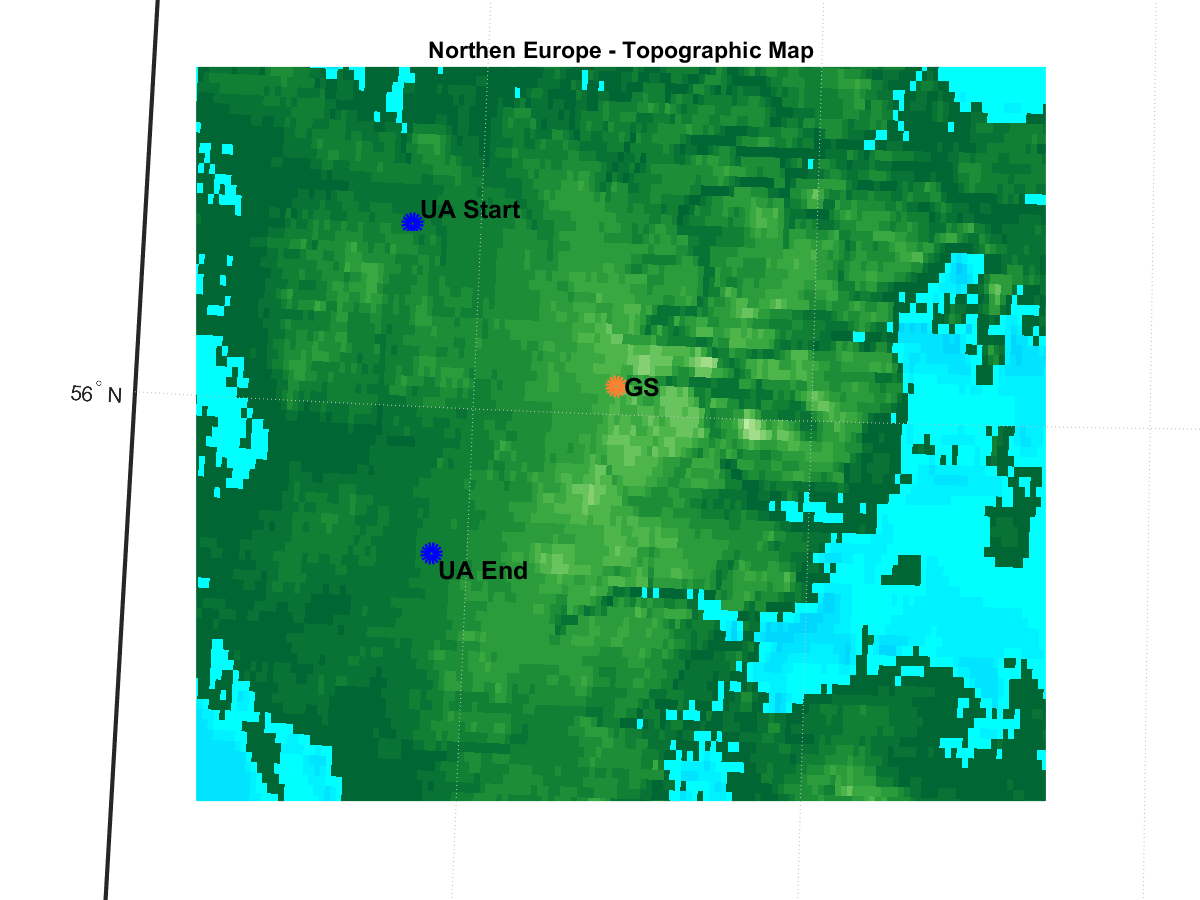
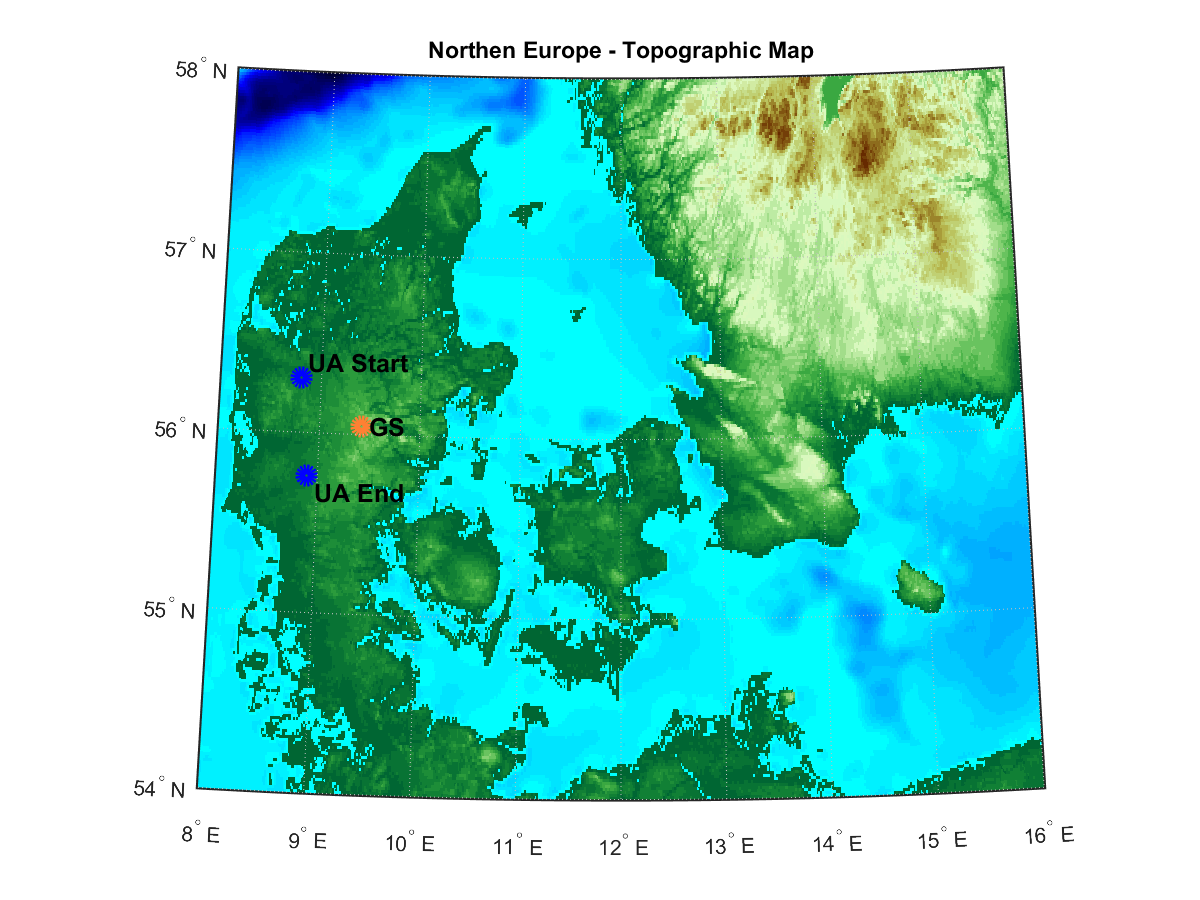
zoom

diff --git a/doc/report/sections/results/scenario1.tex b/doc/report/sections/results/scenario1.tex
@@ -1,20 +1,20 @@
+\newpage
 \section{Scenario 1 - Angle Range}\label{sec:scenario1}
-The first scenario describes the movement of the antennas when the UA flies far away from the GS between two predefined positions (Figure \ref{fig:s1_map_a}). The distance between the aircraft and the GS can be represented by a parabola, as is described in Figure \ref{fig:s1_map_b}. In the beginning, the distance between both devices is around 48km and, while the UA is flying, the distance becomes smaller, achieving a minimum value. After this minimum, the distance between the devices increases until the UA reach the final position.
+The first scenario describes the movement of the antennas when the UA flies far away from the GS between two predefined positions (Figure \ref{fig:s1_map_a}). The distance between the aircraft and the GS can be represented by a parabola, as is described in Figure \ref{fig:s1_map_c}. In the beginning, the distance between both devices is around 48km and, while the UA is flying, the distance becomes smaller, achieving a minimum value. After this minimum, the distance between the devices increases until the UA reach the final position.
 
 Based on Figures \ref{fig:s1_pd_gs_alone} and \ref{fig:s1_pd_ua_alone}, it is possible to observe that the azimuth and elevation angles of the UA and the GS often have different behaviours during the whole movement. 
-  
 
 \begin{figure}[H]
-	\hfill
-	\subfigure[UAS Map Positioning]{\label{fig:s1_map_a} \includegraphics[scale=0.32]{figures/s1_map.png}}
-	\hfill
-	\subfigure[LOS and Distance]{\label{fig:s1_map_b} \includegraphics[scale=0.34]{figures/s1_los.png}}
-	\hfill
+	\centering
+	\subfigure[UAS Map Positioning]{\label{fig:s1_map_a} \includegraphics[scale=0.37]{figures/s1_map.png}}
+	\subfigure[UAS Map Zoom]{\label{fig:s1_map_b} \includegraphics[scale=0.31]{figures/s1_zoom.png}}
+	\\
+	\subfigure[LOS and Distance]{\label{fig:s1_map_c} \includegraphics[scale=0.53]{figures/s1_los.png}}
 	\caption{Angle Range Scenario}
 	\label{fig:s1_map}
 \end{figure}
 
-\subsection{Ground Station}\label{GroundStation_scenario1}
+\subsection*{GS Tracking Angles}\label{GroundStation_scenario1}
 As expected, the absolute value of the $\theta_{OPTIMAL}$ increases until it reaches 180$^{\circ}$  and, then, it starts increasing from -180$^{\circ}$ until the end. The initial $\theta_{OPTIMAL}$ is around 140$^{\circ}$ due to the system of coordinates applied where the Local NED frame coincides with the body frame. This assumption was taken into account because the position of the GS is static.
 
 In the beginning, the amplitude of the azimuth angle is positive and is growing because the UA is flying on the left side of the GS (lower longitude) to south (decreasing latitude). However, there is a jump when $\theta$ reaches 180$^{\circ}$ in the first graph of Figure \ref{fig:s1_pd_gs_alone}. This happens due to the used convention which limits the range from -180$^{\circ}$ to 180$^{\circ}$. Nonetheless, there is a continuous rotation, which means that when the antenna achieves 180$^{\circ}$, it will continue rotate in the same direction starting from -180$^{\circ}$. Thus, after the jump, the amplitude of the azimuth angle will continue increase from -180$^{\circ}$ until -136$^{\circ}$.
@@ -52,7 +52,7 @@ In this project, P and PD controllers are not affected by the overshoot and, fur
 	\label{fig:s1_gs}
 \end{figure}
 
-\subsection{Unmanned Aircraft}
+\subsection*{UA Tracking Angles}
 Figure \ref{fig:s1_pd_ua_alone} shows the elevation and azimuth angles of the UA during the whole movement. Based on the fact that the Local NED frame does not coincide with the body frame, it is possible to understand the behaviour of the angle of the antenna. Since the GS is in the right side of the UA (bigger longitude) and the UA is flying towards south (decreasing latitude), the antenna angle will be positive during the whole flight.
 The initial $\theta_{OPTIMAL}$ starts around 50 degrees and, as was mentioned before, it increases until around 130 degrees.
 
@@ -86,7 +86,7 @@ Thus, based on the graphs of the azimuth angle of Figure \ref{fig:s1_ua}, it is 
 	\label{fig:s1_ua}
 \end{figure}
 
-\subsection{Power}
+\subsection*{Signal Power}
 In general, the power in the receiver described in Figure \ref{fig:s1_power} has almost the same behaviour in all of the different controllers. In every case, the power in the beginning is small (-100dBm) because the antennas are not pointing at each other. After 10 samples, the antenna of the GS and the antenna of the UA are pointing at each other and the power received in all cases is the same (antennas in the GS and in the UA are the same in all cases). Since they are pointing at each, in an ideal situation, the maximum power only depends on the kind of antennas used.
 
 When the UA is at the closest point to the GS, the power in the receiver has a peak at the time sample of 54. This happens because the distance between the antennas is small which reduces the path losses.
